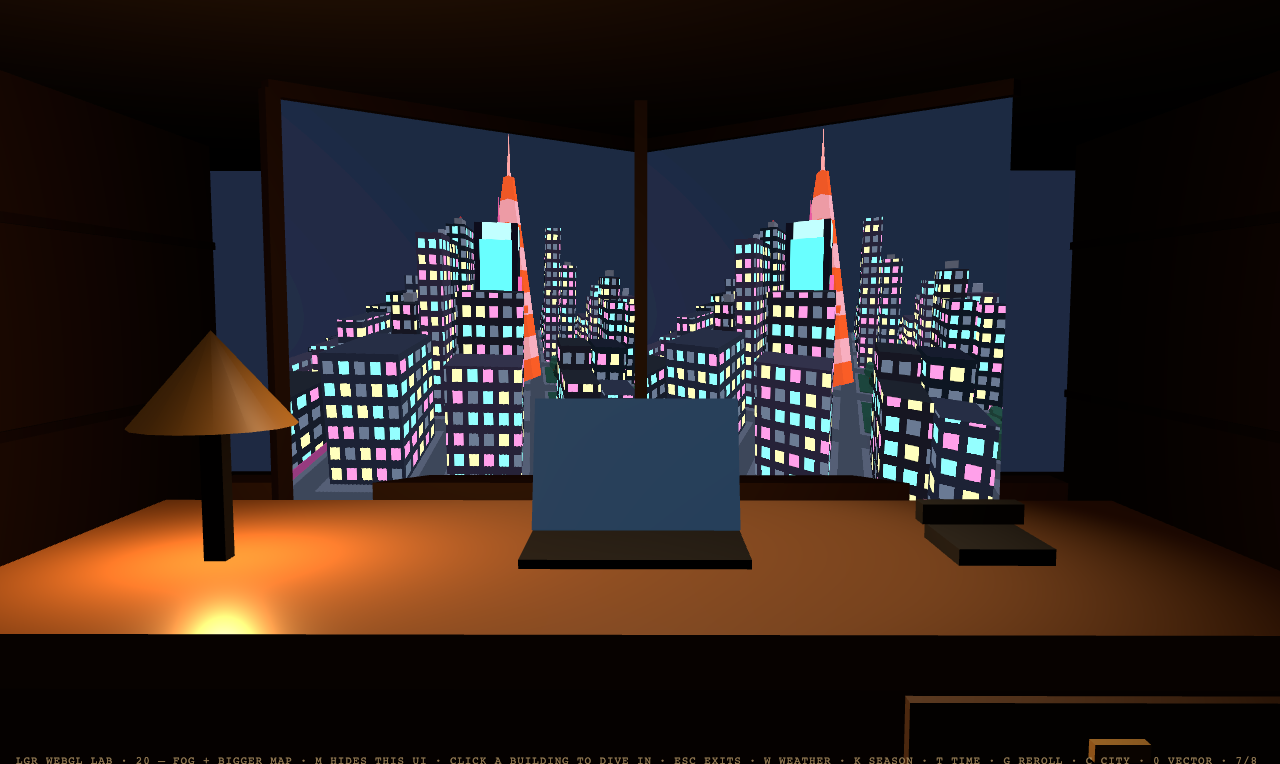
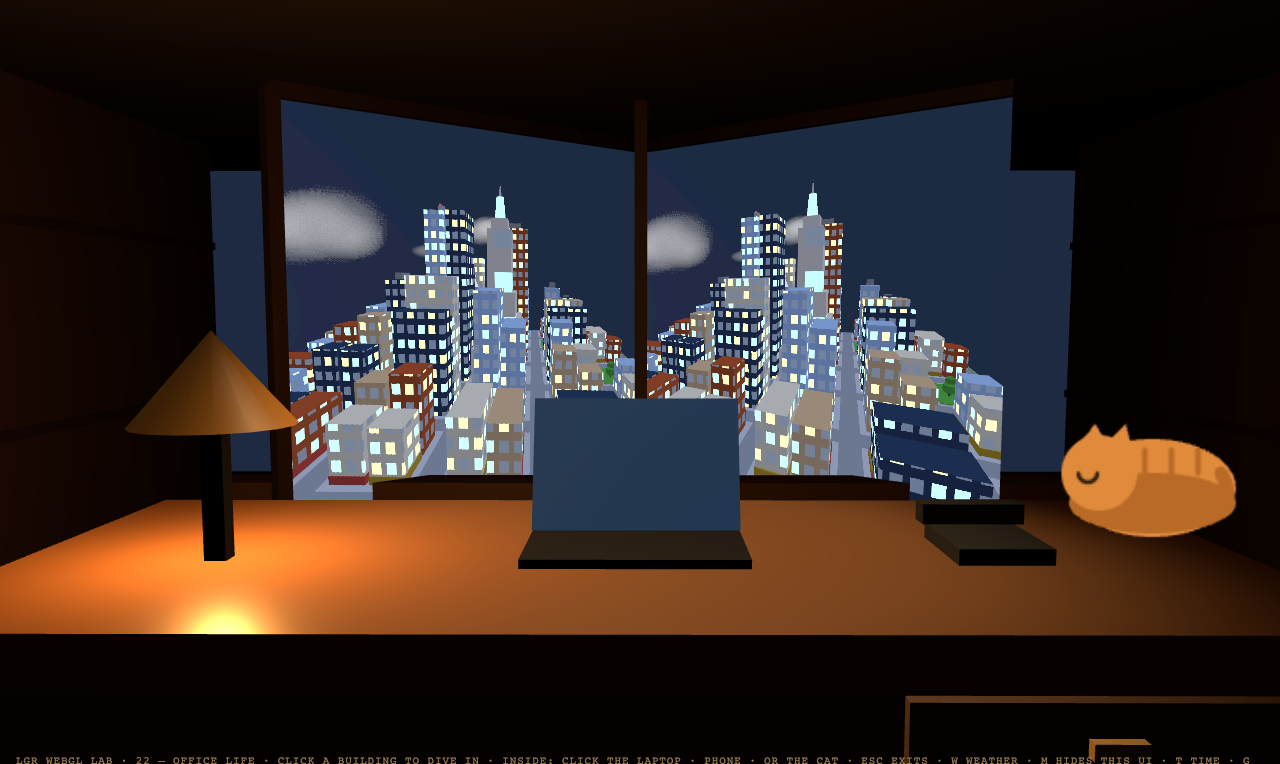
demo: office section now shows the cat + usable laptop/phone
Swap night hero + day shots for the cat-included captures (asleep at night,
awake by day); copy now sells the usable desk + the day/night cat.

Changed region(s): [[0.2188, 0.2107, 0.8125, 0.6623], [0.125, 0.9935, 1.0, 1.0], [0.8125, 0.5419, 0.9688, 0.7225]]

diff --git a/index.html b/index.html
@@ -133,17 +133,19 @@
   <h2>Step inside — the office dive</h2>
   <p class="note">Click a building and the camera flies through its window into a warm office —
   one continuous move. The whole city stays alive outside the glass: day and night, weather,
-  traffic, lit windows. Press <kbd>Esc</kbd> (or tap Exit) to fly back out.</p>
+  clouds, lit windows. And the room is yours: use the laptop, hop to another city from the
+  phone, and there's a cat that wakes with the sun and curls up to sleep at night.
+  Press <kbd>Esc</kbd> (or tap Exit) to fly back out.</p>
   <div class="grid">
-    <figure class="hero"><img src="feature-office-night.png" alt="Inside a warm office at night, the lit city skyline through the corner windows" />
-      <figcaption><b>Inside, at night</b> — a warm corner office, the living skyline glowing
-      through the glass. The city out the window is the real engine, rendered live.</figcaption></figure>
+    <figure class="hero"><img src="feature-office-night.png" alt="Inside a warm office at night, the lit city through the windows, a cat asleep on the desk" />
+      <figcaption><b>Inside, at night</b> — the skyline glows through the glass and the cat is
+      curled up asleep on the desk. The city out the window is the real engine, rendered live.</figcaption></figure>
     <figure><img src="feature-office-fog.png" alt="Office at night with the city in fog through the windows" />
       <figcaption><b>Weather, from inside</b> — fog rolls across the skyline beyond the glass
       while the room stays warm and lit.</figcaption></figure>
-    <figure><img src="feature-office-day.png" alt="Office by day with a different city skyline through the windows" />
-      <figcaption><b>Any city</b> — the skyline outside is whichever city you're in; the office
-      is the same warm room, the view is yours.</figcaption></figure>
+    <figure><img src="feature-office-day.png" alt="Office by day, clouds over a sunny skyline, the cat awake on the desk" />
+      <figcaption><b>By day</b> — clouds drift over a sunny skyline, the cat's awake on the desk,
+      and the laptop and phone are right there to use.</figcaption></figure>
   </div>
 
   <h2>Any art style, instantly</h2>